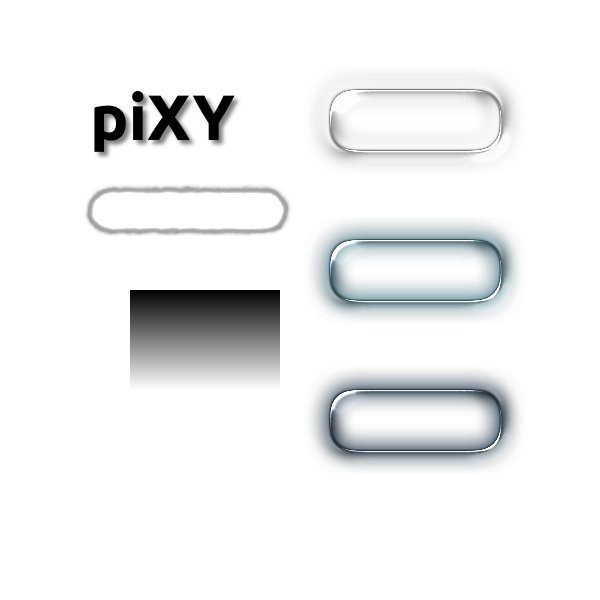
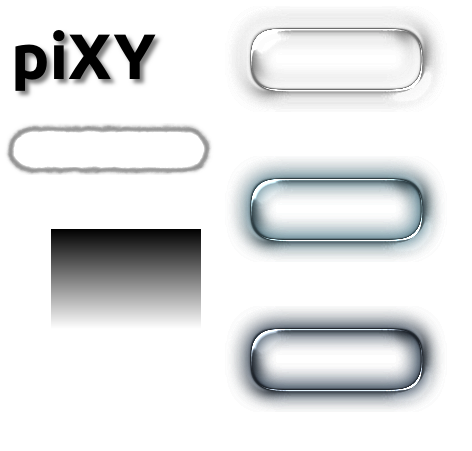
Changed default zoom and tightened up the sample image.

diff --git a/public/javascripts/application.js b/public/javascripts/application.js
@@ -1,6 +1,7 @@
 $(function () {
     var $imageURL = $("#image-url"),
         $load = $("#load-image"),
+        $loadingMessage = $("#loading-message"),
         $imageScroller = $("#image-scroller"),
         $spriteMarker = $("#sprite-marker"),
         $w = $("#w"), $h = $("#h"),
@@ -46,7 +47,7 @@ $(function () {
         ox, oy, // sub-zoomed-pixel offsets
         spriteL = 0, spriteT = 0, spriteR = 0, spriteB = 0,
         spriteW = 0, spriteH = 0,
-        zoomLevel = 8;
+        zoomLevel = parseInt($zoomLevel.val(), 10);
 
     // Create a viewport-sized source tiled with the 'transparency.png' image.
     // This is to avoid having to tile it each frame.
@@ -98,10 +99,15 @@ $(function () {
 
     transPatternImage.src = "images/transparent.png";
 
+    // Demo image
+    sourceImage.src = "images/pixy_sample.png";
+
     $load.click(function () {
+        $loadingMessage.fadeIn(100);
         $.get("image", { url: $imageURL.val() }, function (data) {
             if (data === "ERROR") {
                 alert("Sorry, unable to load that image.");
+                $loadingMessage.fadeOut();
             } else {
                 sourceImage.src = data;
             }
@@ -112,6 +118,7 @@ $(function () {
         var w, h, tempCanvas, tempCtx;
 
         $imageScroller.show();
+        $loadingMessage.fadeOut();
 
         w = sourceImage.width;
         h = sourceImage.height;
